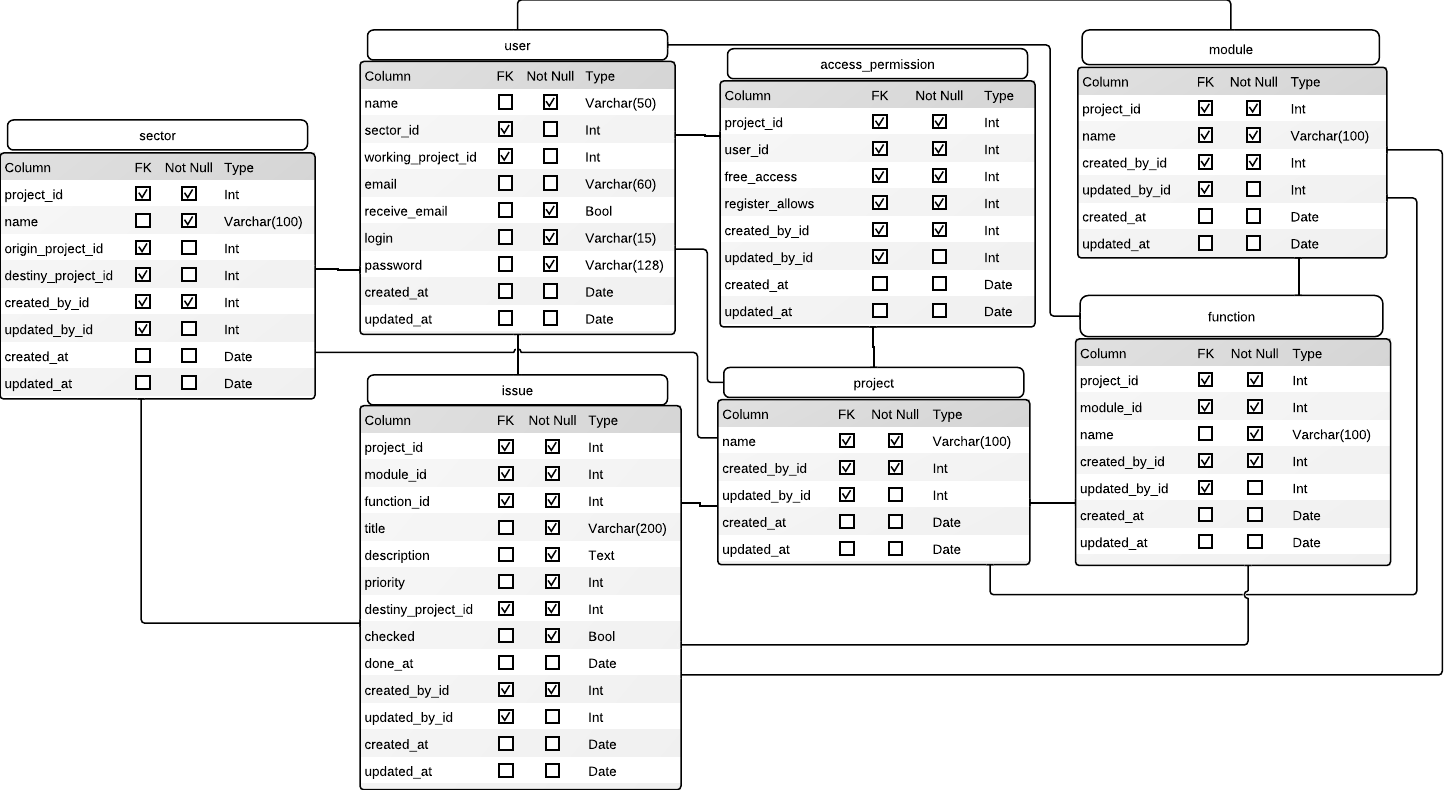
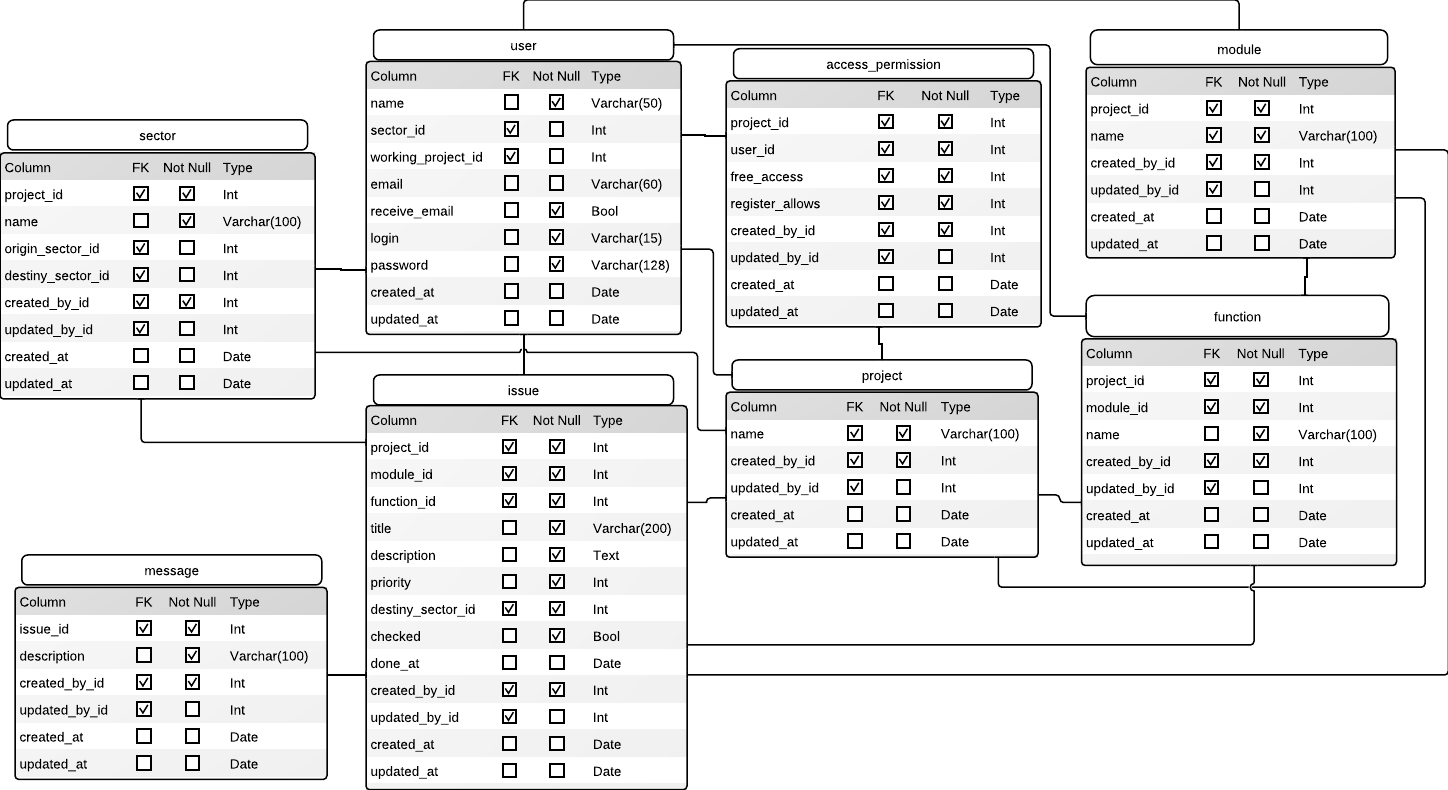
developing project

diff --git a/db/migrate/20120214222135_create_sectors.rb b/db/migrate/20120214222135_create_sectors.rb
@@ -1,0 +1,14 @@
+class CreateSectors < ActiveRecord::Migration
+  def change
+    create_table :sectors do |t|
+      t.references  :project,       null: false
+      t.string      :name,          null: false, limit: 100
+      t.integer     :origin_sector_id
+      t.integer     :destiny_sector_id
+      t.integer     :created_by_id, null: false
+      t.integer     :updated_by_id
+
+      t.timestamps
+    end
+  end
+end

diff --git a/db/migrate/20120214222146_create_projects.rb b/db/migrate/20120214222146_create_projects.rb
@@ -1,0 +1,11 @@
+class CreateProjects < ActiveRecord::Migration
+  def change
+    create_table :projects do |t|
+      t.string  :name,          null: false, limit: 100
+      t.integer :created_by_id, null: false
+      t.integer :updated_by_id
+
+      t.timestamps
+    end
+  end
+end

diff --git a/spec/factories/projects.rb b/spec/factories/projects.rb
@@ -1,0 +1,6 @@
+# Read about factories at http://github.com/thoughtbot/factory_girl
+
+FactoryGirl.define do
+  factory :project do
+  end
+end

diff --git a/spec/factories/sectors.rb b/spec/factories/sectors.rb
@@ -1,0 +1,6 @@
+# Read about factories at http://github.com/thoughtbot/factory_girl
+
+FactoryGirl.define do
+  factory :sector do
+  end
+end

diff --git a/spec/models/project_spec.rb b/spec/models/project_spec.rb
@@ -1,0 +1,5 @@
+require 'spec_helper'
+
+describe Project do
+  pending "add some examples to (or delete) #{__FILE__}"
+end

diff --git a/spec/models/sector_spec.rb b/spec/models/sector_spec.rb
@@ -1,0 +1,5 @@
+require 'spec_helper'
+
+describe Sector do
+  pending "add some examples to (or delete) #{__FILE__}"
+end

diff --git a/app/models/project.rb b/app/models/project.rb
@@ -1,0 +1,2 @@
+class Project < ActiveRecord::Base
+end

diff --git a/app/models/sector.rb b/app/models/sector.rb
@@ -1,0 +1,2 @@
+class Sector < ActiveRecord::Base
+end
